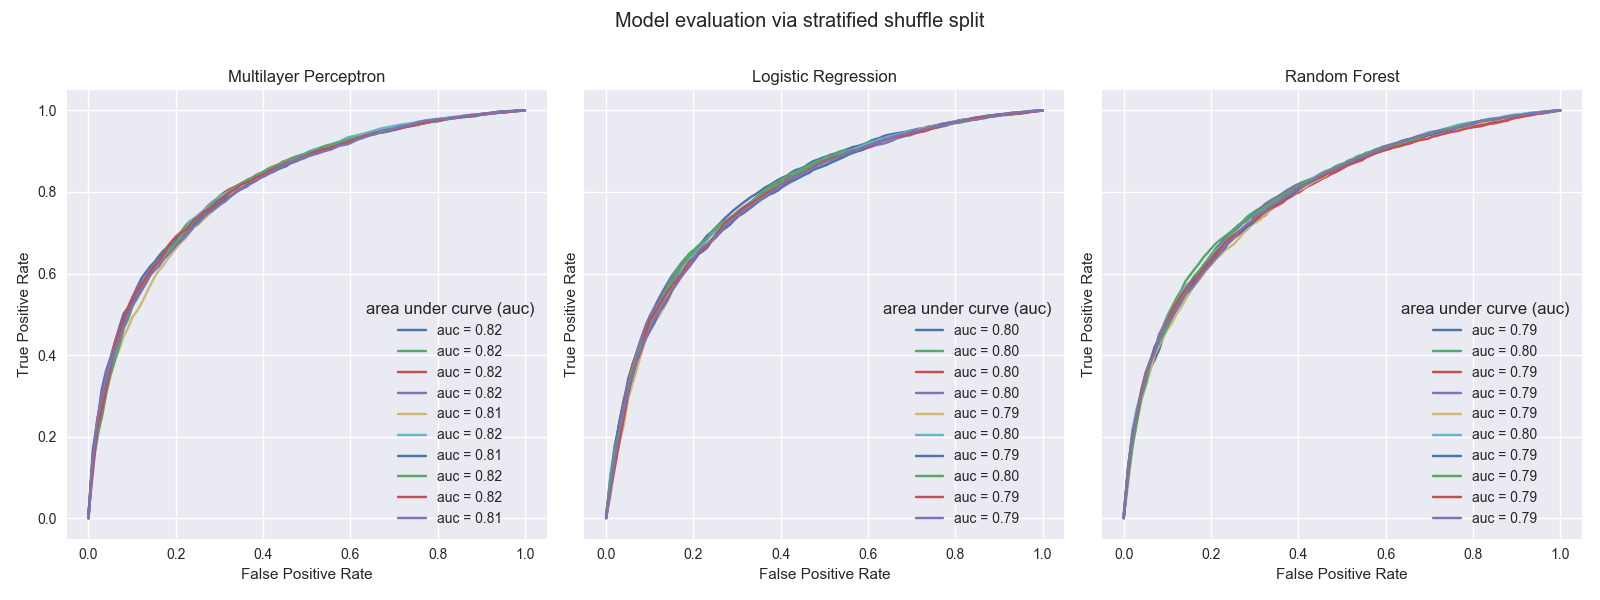
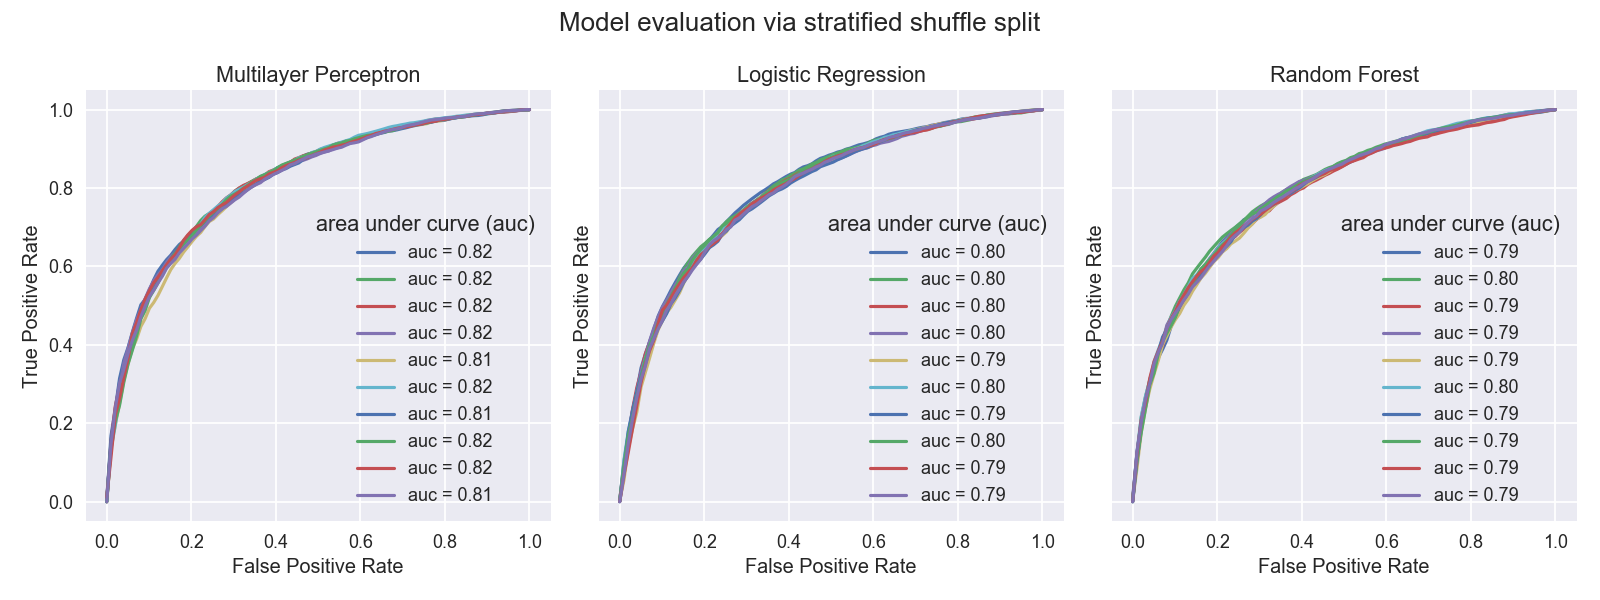
seaborn talk context

diff --git a/modules/full_classifier.py b/modules/full_classifier.py
@@ -9,6 +9,7 @@ matplotlib.use('Agg')
 try:
     # OPTIONAL
     import seaborn
+    seaborn.set_context('talk')
 except ImportError:
     pass
 
@@ -162,7 +163,8 @@ def plot_metrics(X, y):
     ax.set_yticks(bars + 0.5*width)
     ax.set_yticklabels(MODELS)
     # Add legend
-    ax.legend((hist1[0], hist2[0]), ('Train', 'Test'))
+    ax.legend((hist2, hist1), ('Test', 'Train'))
+    plt.tight_layout()
     plt.savefig('accuracy-score.png')
 
 
